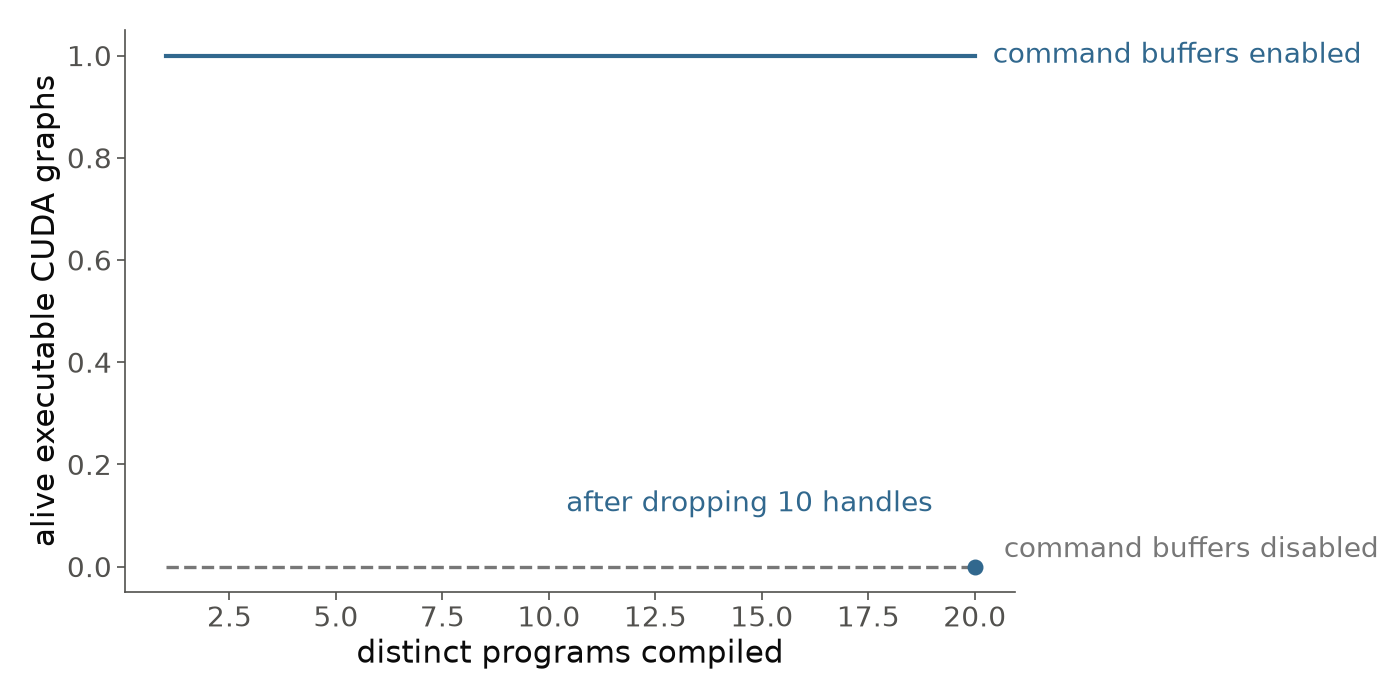
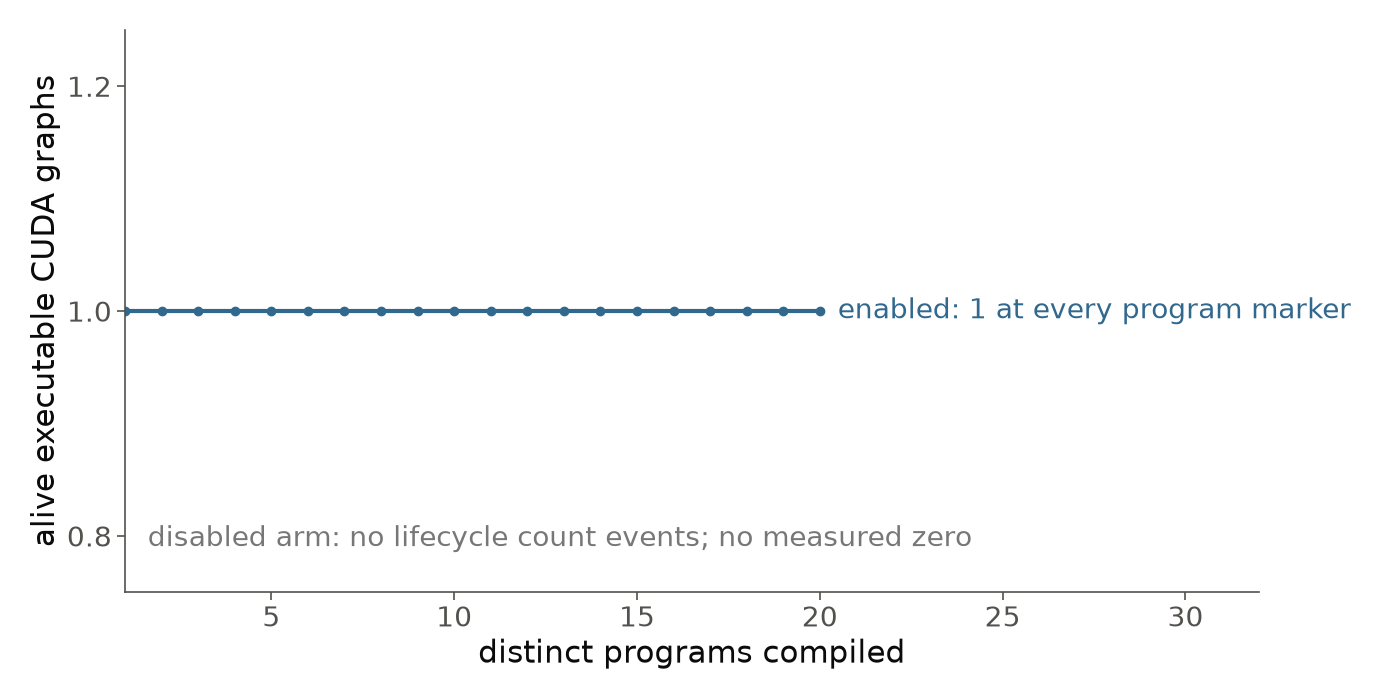
docs(evidence): align graph count figure with ladder
Render only the measured twenty-program series and state the bounded no-growth conclusion without claiming an unmeasured release.

diff --git a/docs/evidence/fragments/millisecond-converged-solve/mcs-alive-graph-count-series.html b/docs/evidence/fragments/millisecond-converged-solve/mcs-alive-graph-count-series.html
@@ -6,7 +6,7 @@
   <meta name="reckon-type" content="evidence">
   <meta name="plan-slug" content="mcs-alive-graph-count-series">
   <meta name="plan-title" content="CUDA executable-graph lifetime across distinct programs">
-  <meta name="plan-summary" content="Job 1280456 observed no growth across twenty programs; its post-drop reading was 2 and release was not established. Later release analysis is withdrawn.">
+  <meta name="plan-summary" content="Job 1280456 kept the alive count at 1 across twenty programs, so it does not accumulate across this ladder; executable release remains unmeasured.">
   <meta name="plan-evidence-for" content="millisecond-converged-solve">
   <title>CUDA executable-graph lifetime | nova</title>
 </head>
@@ -19,12 +19,15 @@
   </header>
 
   <section id="alive-graph-count-series">
-    <h2>Twenty-program result and release reading</h2>
+    <h2>Twenty-program result</h2>
     <p>Titan job <code>1280456</code> at revision <code>82f26d0a</code> reported
     <code>no_growth_observed</code>: the alive count was 1 at program 1 and 1 at program 20 across
-    20 distinct programs. Its own output reported 2 alive after dropping the handles and
-    <code>graphs_released_after_drop</code> −1. The disabled-command-buffer control reported 0.
-    Release was not established by this job.</p>
+    20 distinct programs. Graphs therefore do not accumulate per compiled program, and the
+    alive count is not process-cumulative across programs in this ladder.</p>
+    <p>Whether dropping an executable releases its graph is not measured. Job <code>1280456</code>
+    reported 2 alive after dropping the handles and <code>graphs_released_after_drop</code> −1,
+    but that is not a demonstrated release. The command-buffer-disabled arm logged no count events
+    at all: its reported 0 is an absence of lifecycle events, not a measured zero.</p>
     <p>A later <code>--analyze-existing</code> pass at <code>a9c29fa7</code> changed the counting
     logic and reported after-drop 0, released 1, and
     <code>executable_scoped_not_process_cumulative</code>. Those post-hoc values are withdrawn:
@@ -35,7 +38,8 @@
     <code>before_drop</code>, dropped ten handles, cleared caches, synchronized, executed zero
     programs, then emitted <code>settled_reread</code>. XLA emitted no count between those markers;
     the next count was logged at process teardown. The instrument therefore produced no settled
-    count or verdict. In these runs, XLA logs a count only on a graph lifecycle event.</p>
+    count or verdict. In these runs, XLA logs a count only on a graph lifecycle event; the settled
+    reread found none before its marker.</p>
     <p>A successor needs an on-demand runtime count query that can log after synchronization without
     dispatching a graph, followed by a completed two-arm job.</p>
   </section>

diff --git a/docs/figures/millisecond-converged-solve/cuda-graph-count/measure_cuda_graph_count.py b/docs/figures/millisecond-converged-solve/cuda-graph-count/measure_cuda_graph_count.py
@@ -266,7 +266,7 @@ def _classify(
     }
 
 
-def _plot(receipt: dict[str, object], output: Path) -> None:
+def _plot(receipt: dict[str, object], png_output: Path, svg_output: Path) -> None:
     import matplotlib.pyplot as plt
 
     try:
@@ -283,76 +283,66 @@ def _plot(receipt: dict[str, object], output: Path) -> None:
                 "lines.linewidth": 2.6,
             }
         )
-    enabled, disabled = receipt["arms"]
-    enabled_rows = [row for row in enabled["rows"] if row["kind"] == "program"]
-    disabled_rows = [row for row in disabled["rows"] if row["kind"] == "program"]
+    enabled = next(
+        arm for arm in receipt["arms"] if arm["arm"] == "command_buffers_enabled"
+    )
+    enabled_rows = [
+        row
+        for row in enabled["rows"]
+        if row["kind"] == "program" and row["alive_executable_graphs"] is not None
+    ]
+    if not enabled_rows:
+        raise RuntimeError("no enabled-arm program markers carried an XLA graph count")
     x_enabled = [row["programs_compiled"] for row in enabled_rows]
     y_enabled = [row["alive_executable_graphs"] for row in enabled_rows]
-    x_disabled = [row["programs_compiled"] for row in disabled_rows]
-    y_disabled = [row["alive_executable_graphs"] or 0 for row in disabled_rows]
-    settled_reread = next(
-        row for row in enabled["rows"] if row["kind"] == "settled_reread"
-    )
-    post_drop = {
-        "programs_compiled": settled_reread["programs_compiled"],
-        "dropped_handles": settled_reread["dropped_handles"],
-        "alive_executable_graphs": receipt["summary"][
-            "alive_executable_graphs_after_drop"
-        ],
-    }
 
     figure, axis = plt.subplots(figsize=(14, 7), dpi=100)
     enabled_colour = "#31688e"
     neutral = "#777777"
-    axis.plot(x_enabled, y_enabled, color=enabled_colour, linewidth=3.0)
-    axis.plot(x_disabled, y_disabled, color=neutral, linewidth=2.4, linestyle="--")
-    axis.scatter(
-        [post_drop["programs_compiled"]],
-        [post_drop["alive_executable_graphs"]],
+    axis.plot(
+        x_enabled,
+        y_enabled,
         color=enabled_colour,
-        s=110,
-        zorder=3,
-    )
-    axis.annotate(
-        f"settled reread after dropping {post_drop['dropped_handles']} handles",
-        (post_drop["programs_compiled"], post_drop["alive_executable_graphs"]),
-        xytext=(-30, 35),
-        textcoords="offset points",
-        ha="right",
-        va="bottom",
-        color=enabled_colour,
-        fontsize=20,
+        linewidth=3.0,
+        marker="o",
+        markersize=6,
     )
     axis.text(
         x_enabled[-1],
         y_enabled[-1],
-        "  command buffers enabled",
+        "  enabled: 1 at every program marker",
         color=enabled_colour,
         fontsize=20,
         va="center",
     )
-    axis.annotate(
-        "  command buffers disabled",
-        (x_disabled[-1], y_disabled[-1]),
-        xytext=(8, 12),
-        textcoords="offset points",
+    axis.text(
+        0.02,
+        0.07,
+        "disabled arm: no lifecycle count events; no measured zero",
+        transform=axis.transAxes,
         color=neutral,
         fontsize=20,
-        va="center",
+        va="bottom",
     )
     axis.set_xlabel("distinct programs compiled")
     axis.set_ylabel("alive executable CUDA graphs")
+    axis.set_xlim(min(x_enabled), max(x_enabled) + 12)
+    axis.set_ylim(0.75, 1.25)
+    axis.set_yticks([0.8, 1.0, 1.2])
     axis.spines["left"].set_linewidth(1.2)
     axis.spines["bottom"].set_linewidth(1.2)
     axis.tick_params(width=1.2)
     figure.tight_layout()
-    figure.savefig(output)
+    figure.savefig(png_output)
+    plt.rcParams["svg.fonttype"] = "none"
+    figure.savefig(svg_output)
     plt.close(figure)
 
 
 def main() -> int:
     parser = argparse.ArgumentParser()
     parser.add_argument("--child", action="store_true")
+    parser.add_argument("--render-receipt", action="store_true")
     parser.add_argument("--output-dir", type=Path)
     parser.add_argument("--log-dir", type=Path)
     parser.add_argument("--programs", type=int, default=20)
@@ -366,6 +356,16 @@ def main() -> int:
 
     output_dir = arguments.output_dir.resolve()
     output_dir.mkdir(parents=True, exist_ok=True)
+    if arguments.render_receipt:
+        receipt_path = output_dir / "receipt.json"
+        with receipt_path.open(encoding="utf-8") as receipt_file:
+            stored_receipt = json.load(receipt_file)
+        _plot(
+            stored_receipt,
+            output_dir / "alive-graph-count.png",
+            output_dir / "alive-graph-count.svg",
+        )
+        return 0
     log_dir = (arguments.log_dir or output_dir).resolve()
     log_dir.mkdir(parents=True, exist_ok=True)
     script = Path(__file__).resolve()
@@ -398,7 +398,11 @@ def main() -> int:
         receipt_path.write_text(json.dumps(receipt, indent=2) + "\n", encoding="utf-8")
     receipt["summary"] = _classify(*receipt["arms"])
     receipt_path.write_text(json.dumps(receipt, indent=2) + "\n", encoding="utf-8")
-    _plot(receipt, output_dir / "alive-graph-count.png")
+    _plot(
+        receipt,
+        output_dir / "alive-graph-count.png",
+        output_dir / "alive-graph-count.svg",
+    )
     print(json.dumps(receipt["summary"], sort_keys=True))
     return 0
 
